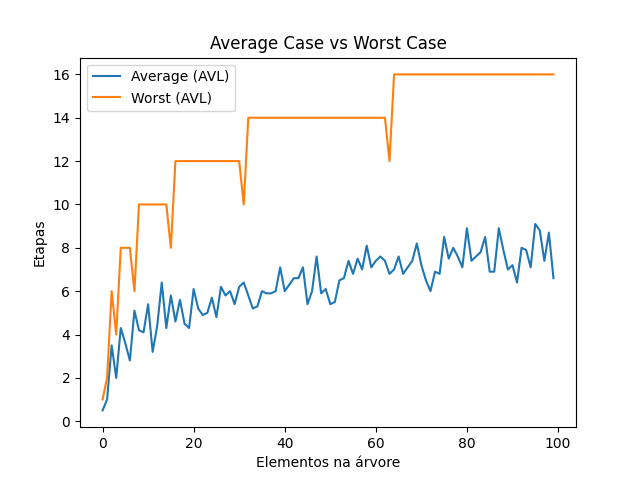
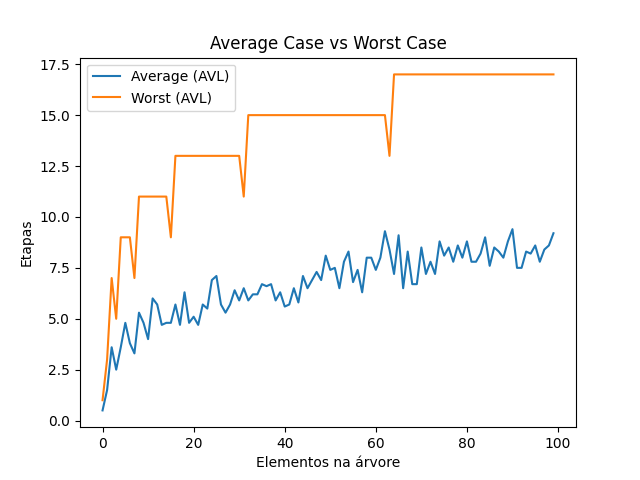
update

diff --git a/Trabalho/AVLTree/AVLTree.c b/Trabalho/AVLTree/AVLTree.c
@@ -58,8 +58,10 @@ int nodeHeight(node *root){
 
 void balance(tree *AVL, node *root){
     
-    while(root->father != NULL || abs(balanceFactor(root)) > 1){
+    while(root != NULL){
         countSteps++;
+        //printf("root = %i and first = %i\n", root->number, AVL->firstRoot->number);
+
         // (1) Se o nó não existir:
         if(root == NULL) return;
 
@@ -77,6 +79,7 @@ void balance(tree *AVL, node *root){
             // ... está balanceado e então deixa-lo o mais balanceado possível.
             if(balanceFactor(root->right) > 0) rotateRight(AVL, root->right);
             rotateLeft(AVL, root);
+
         }
         root = root->father;
     }
